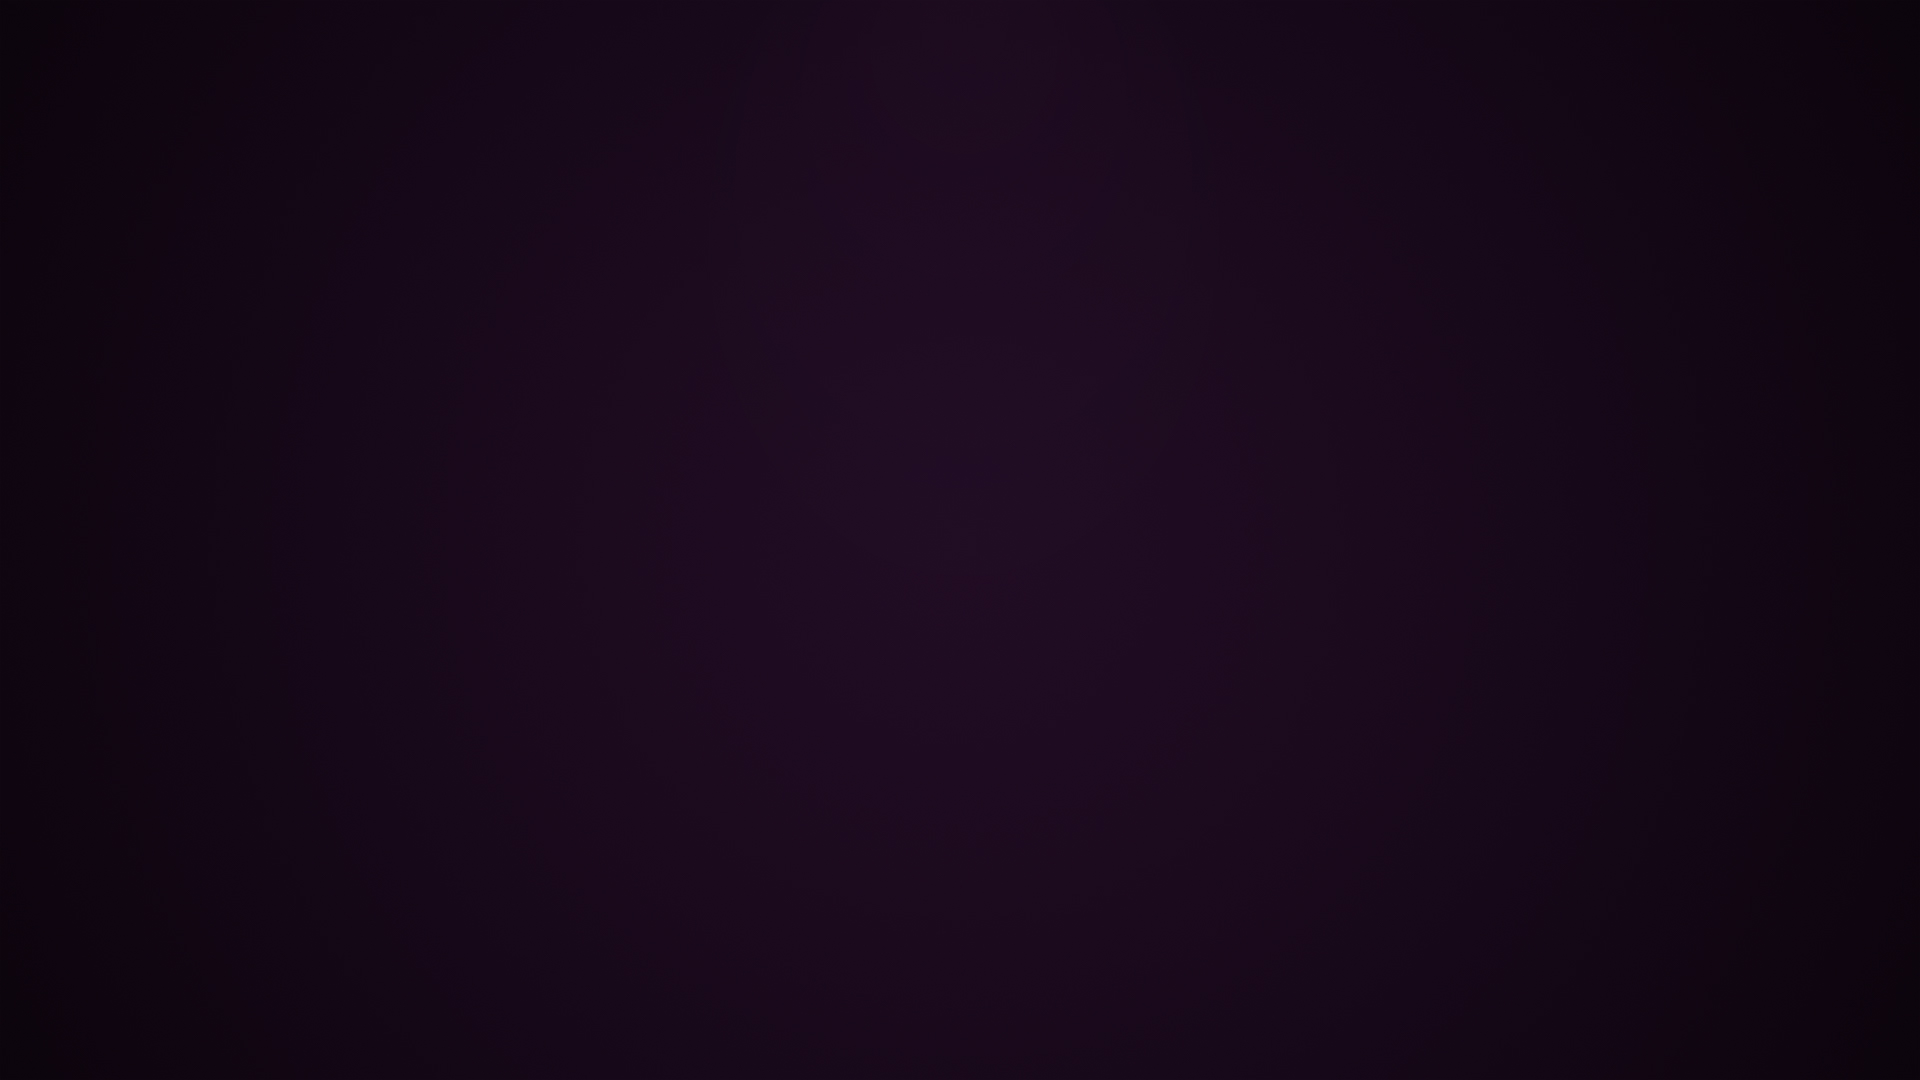
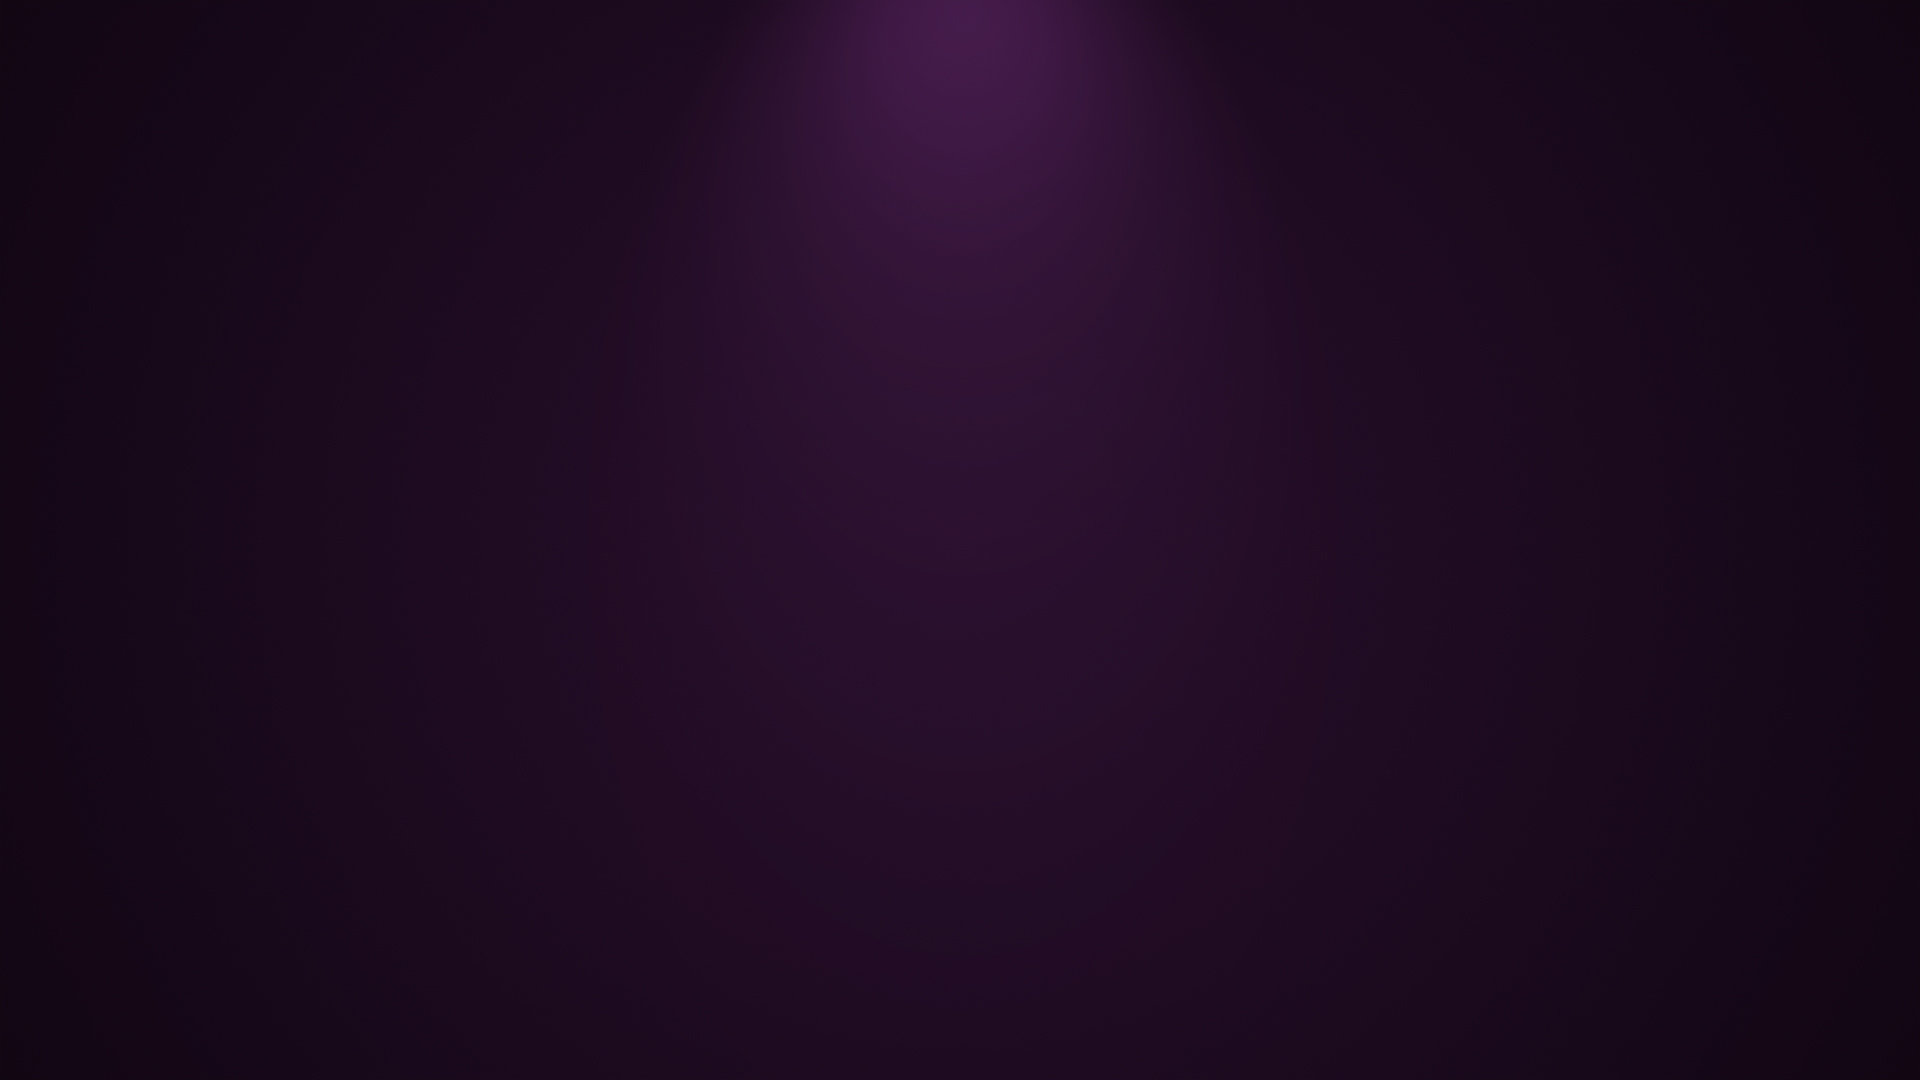
parallas :pow:

Changed region(s): [[0.4062, 0.0, 0.5938, 0.2444]]

diff --git a/assets/js/application.js b/assets/js/application.js
@@ -1,14 +1,40 @@
 "use strict";
-
 import 'core-js';
-import anime from 'animejs'
-import baffle from 'baffle'
+import baffle from 'baffle';
+import Parallax from 'parallax-js';
 
 function app() {
-	let hello = baffle('.hello', {
-		characters: '"█▓▒░█▓▒░█▓▒░<>/"',
-		speed: 75
-	}).reveal(1000);
+	baffleRun();
+	parallaxRun();
 
 }
-app();
+
+function parallaxRun() {
+	/*document.addEventListener("DOMContentLoaded", function() {
+			var scene = document.querySelector('.wrapper');
+			var i = new Parallax(scene, {
+				calibrateX: !0,
+				calibrateY: !0,
+				invertX: !0,
+				invertY: !0,
+				scalarX: 100,
+				scalarY: 100,
+				pointerEvents: !0
+			});
+			i.desktop ? i.invert(!0, !0) : i.invert(!1, !1)
+		});*/
+  let scene = document.getElementById('scene');
+  let parallaxInstance = new Parallax(scene, {
+    relativeInput: true
+  });
+  parallaxInstance.friction(0.2, 0.2);
+	}
+
+
+	function baffleRun() {
+		let hello = baffle('.hello', {
+			characters: '"█▓▒░█▓▒░█▓▒░<>/"',
+			speed: 75
+		}).reveal(1000);
+	}
+	app();

diff --git a/assets/styles/_structure.scss b/assets/styles/_structure.scss
@@ -17,8 +17,18 @@ body {
   min-height: 100%;
   margin-bottom: -50px;
   color: #fff;
-  background: $site-background-image center center no-repeat;
-  flex: 1 0 auto;
+
+  div#wrapper-bg {
+    background-image: $site-background-image;
+    overflow: visible;
+    background-size: cover;
+    background-position: center;
+    border: none;
+    animation: none;
+
+    -webkit-transform: translateZ(-3333.333333333333px) !important;
+    transform: translateZ(-3333.333333333333px) !important
+  }
 }
 
 .wrapper > header {
